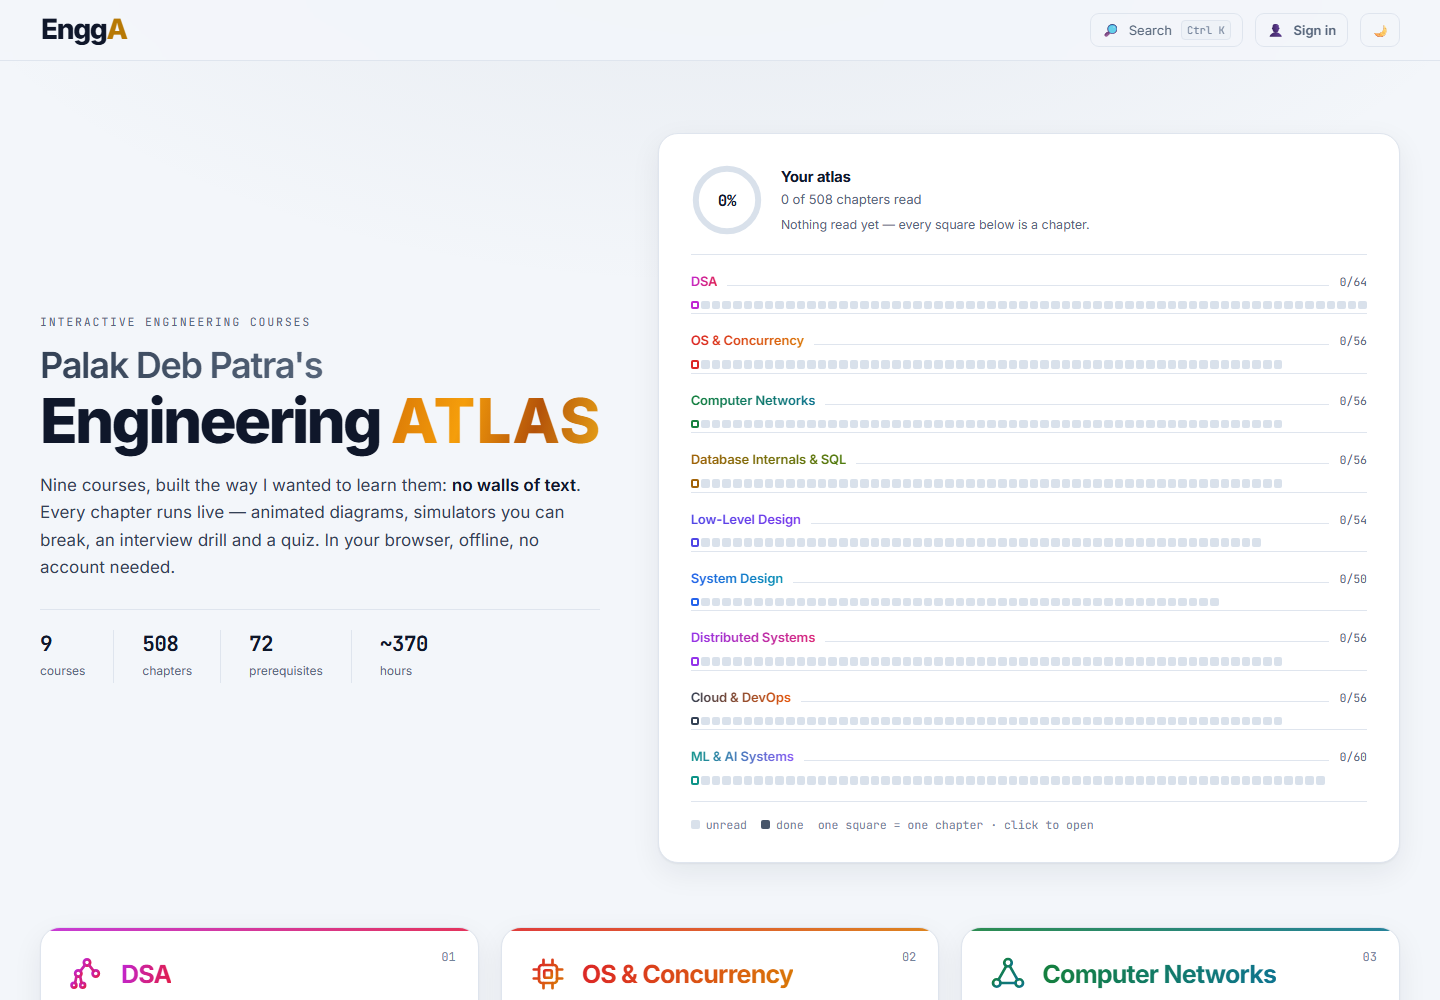
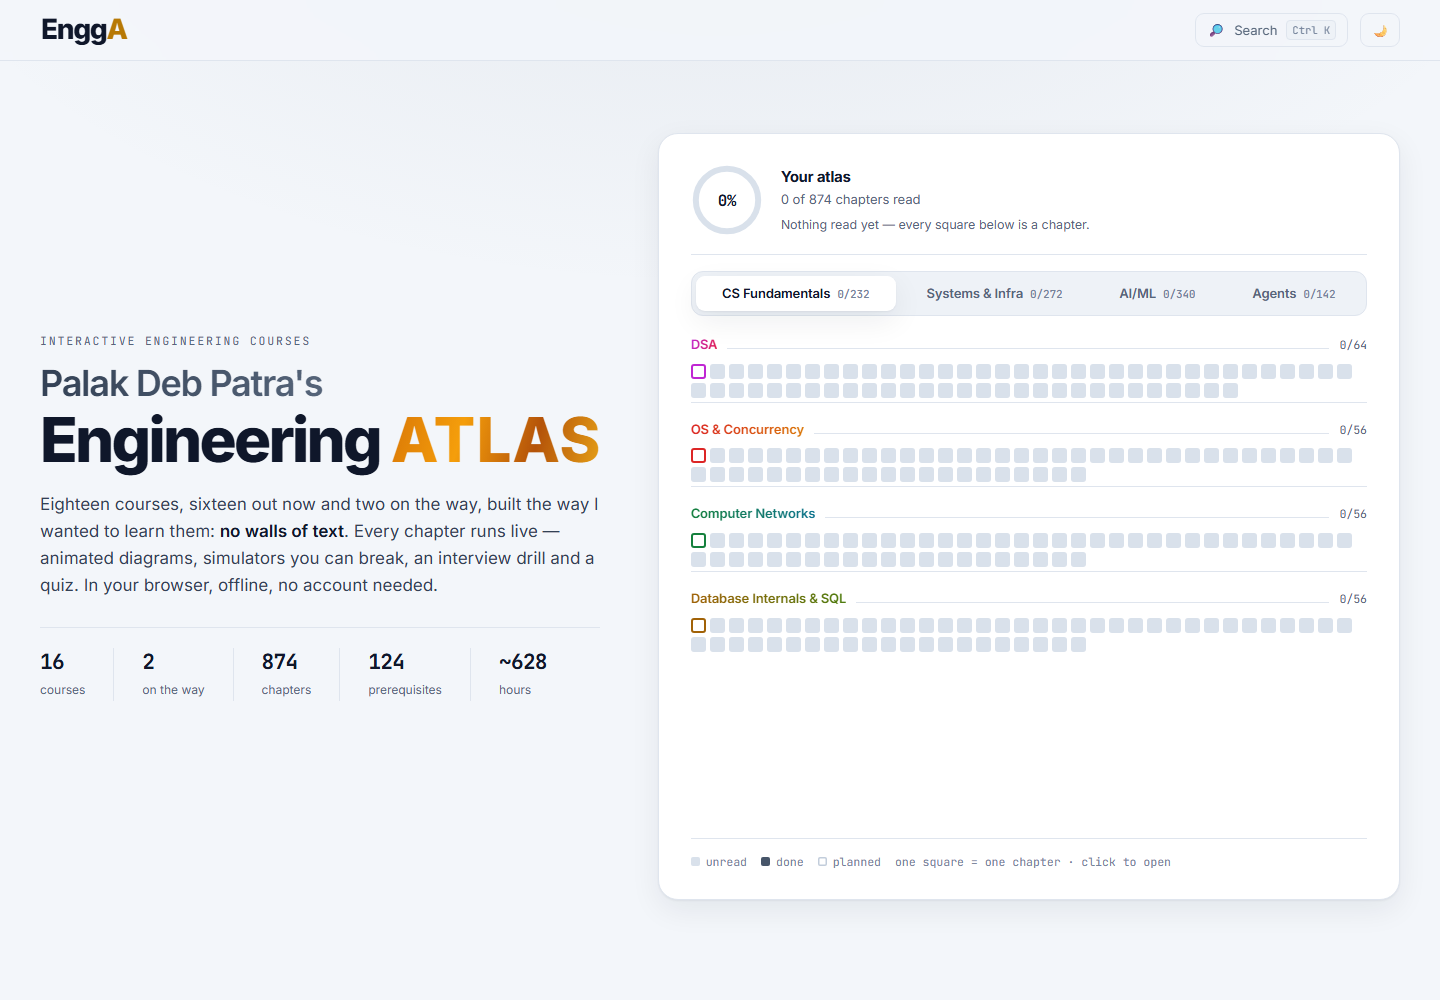
EnggA screenshots changed.....

diff --git a/src/App.tsx b/src/App.tsx
@@ -51,7 +51,7 @@ function Technologies({ items, label }: { items: string[]; label: string }) {
   return <ul className="technologies" role="list" aria-label={label}>{items.map(item => <li className="technology" key={item}><span className="technology-marker" aria-hidden="true">-</span><BrandIcon name={item} /><span>{item}</span></li>)}</ul>;
 }
 
-function TerminalRecord({ record, index, section }: { record: RecordEntry; index: number; section: SectionId }) {
+function TerminalRecord({ record, index, section, theme }: { record: RecordEntry; index: number; section: SectionId; theme: 'light' | 'dark' }) {
   const skills = section === 'skills';
   return <article className={`record tone-${recordTones[index % recordTones.length]} ${skills ? 'skill-branch' : ''}${record.caseStudy ? ' project-row' : ''}`} style={{ '--row-delay': `${Math.min(index, 5) * 35}ms` } as CSSProperties}>
     <div className={record.caseStudy ? 'project-information' : undefined}>
@@ -70,11 +70,11 @@ function TerminalRecord({ record, index, section }: { record: RecordEntry; index
     </div>}
     {record.research && <PublicationDetails />}
     </div>
-    {record.caseStudy && <ProjectPreview study={record.caseStudy} title={record.title} />}
+    {record.caseStudy && <ProjectPreview study={record.caseStudy} title={record.title} theme={theme} />}
   </article>;
 }
 
-function SectionRecords({ section }: { section: Section }) {
+function SectionRecords({ section, theme }: { section: Section; theme: 'light' | 'dark' }) {
   return <>{section.intro && <p className="section-intro"><span className="section-marker" aria-hidden="true">&gt;&gt;</span><span>{section.intro}</span></p>}
   <div className={`records${section.id === 'skills' ? ' skill-tree' : ''}${section.layout === 'single' || section.id === 'projects' ? ' single-column' : ''}${section.id === 'projects' ? ' project-list' : ''}`}>
     {section.columns ? section.columns.map((column, columnIndex) => <section className="record-column" key={column.label} aria-label={column.hideHeading ? column.label : undefined} aria-labelledby={column.hideHeading ? undefined : `column-${section.id}-${columnIndex}`}>
@@ -83,8 +83,8 @@ function SectionRecords({ section }: { section: Section }) {
       </div>}
       {section.records.map((record, index) => ({ record, index }))
         .filter(({ record }) => record.column === (column.column ?? (columnIndex === 0 ? 'left' : 'right')))
-        .map(({ record, index }) => <TerminalRecord key={record.title} record={record} index={index} section={section.id} />)}
-    </section>) : section.records.map((record, index) => <TerminalRecord key={record.title} record={record} index={index} section={section.id} />)}
+        .map(({ record, index }) => <TerminalRecord key={record.title} record={record} index={index} section={section.id} theme={theme} />)}
+    </section>) : section.records.map((record, index) => <TerminalRecord key={record.title} record={record} index={index} section={section.id} theme={theme} />)}
   </div></>;
 }
 
@@ -100,7 +100,7 @@ function Welcome({ onExplore }: { onExplore: (id: SectionId) => void }) {
   </section>;
 }
 
-function Resume({ section }: { section: Section }) {
+function Resume({ section, theme }: { section: Section; theme: 'light' | 'dark' }) {
   const dialogRef = useRef<HTMLDialogElement>(null);
   const closeRef = useRef<HTMLButtonElement>(null);
   const documentRef = useRef<HTMLDivElement>(null);
@@ -124,7 +124,7 @@ function Resume({ section }: { section: Section }) {
       {resumeDocuments.map((document, index) => <button className="cli-action" type="button" key={document.id} aria-pressed={index === documentIndex} aria-controls="resume-current" onClick={() => setDocumentIndex(index)}>{document.label}</button>)}
     </div>
     <div className={`resume-layout${documentIndex === 1 ? ' resume-layout--academic' : ''}`} id="resume-current">
-    <div className="resume-about"><TerminalRecord record={section.records[documentIndex]} index={documentIndex} section="resume" /></div>
+    <div className="resume-about"><TerminalRecord record={section.records[documentIndex]} index={documentIndex} section="resume" theme={theme} /></div>
     <section className="resume-document" aria-labelledby="resume-document-title">
       <div className="resume-document-header">
         <h3 id="resume-document-title"><BrandIcon name="Resume" /> {selectedDocument.label}</h3>
@@ -338,7 +338,7 @@ function Portfolio({ activeId, onSectionChange, onReplay, theme, onToggleTheme }
           {activeId && activeSection ? <div className={`terminal-session tone-${sectionTones[activeId]}${activeId === 'resume' ? ' terminal-session--resume' : ''}`} key={activeId}>
               <h2 className="sr-only">{activeSection.label}</h2>
               <div className="invocation"><span className="path" aria-hidden="true">PS &gt; </span><span className="typed-command" style={{ '--command-length': activeSection.command.length } as CSSProperties}>{activeSection.command}</span><span className="cursor" aria-hidden="true">▌</span></div>
-              {activeId === 'resume' ? <Resume section={activeSection} /> : <SectionRecords section={activeSection} />}
+              {activeId === 'resume' ? <Resume section={activeSection} theme={theme} /> : <SectionRecords section={activeSection} theme={theme} />}
           </div> : <div className="terminal-session welcome-page tone-blue"><Welcome onExplore={switchTab} /></div>}
         </div>
         {activeSection && <TerminalReadingStatus key={activeSection.id} outputRef={outputRef} section={activeSection.label} tone={sectionTones[activeSection.id]} tabsOverflow={tabScroll.controls} />}

diff --git a/tests/exploration.spec.ts b/tests/exploration.spec.ts
@@ -49,6 +49,25 @@ test('four selected projects expose summaries, engineering bullets, and previews
   expect(screenshotSources.size).toBe(4);
 });
 
+test('Engineering Atlas preview and full-size link follow the portfolio theme', async ({ page }) => {
+  await page.emulateMedia({ colorScheme: 'light', reducedMotion: 'reduce' });
+  await page.goto('/#portfolio');
+  await page.getByRole('tab', { name: 'Projects', exact: true }).click();
+  const atlas = page.locator('.record').filter({ has: page.getByRole('heading', { name: '>> The Engineering Atlas', exact: true }) });
+  const screenshot = atlas.locator('.case-cover > img');
+  const fullSize = atlas.getByRole('link', { name: 'Open full-size The Engineering Atlas screenshot', exact: true });
+
+  for (const [theme, source] of [['light', '/images/projects/engineering-atlas.png'], ['dark', '/images/projects/engineering-atlas-dark.png']] as const) {
+    await expect(page.locator('html')).toHaveAttribute('data-theme', theme);
+    await expect(screenshot).toHaveAttribute('src', source);
+    await expect(fullSize).toHaveAttribute('href', source);
+    await expect.poll(() => screenshot.evaluate(image => (image as HTMLImageElement).naturalWidth)).toBe(1440);
+    await page.getByRole('button', { name: `Switch to ${theme === 'light' ? 'dark' : 'light'} theme`, exact: true }).click();
+  }
+  await expect(screenshot).toHaveAttribute('src', '/images/projects/engineering-atlas.png');
+  await expect(fullSize).toHaveAttribute('href', '/images/projects/engineering-atlas.png');
+});
+
 test('NatWest roles use plain bullets and retain verified internship outcomes', async ({ page }) => {
   await page.goto('/#portfolio');
   await page.getByRole('tab', { name: 'Experience', exact: true }).click();

diff --git a/src/content.ts b/src/content.ts
@@ -8,7 +8,7 @@ export interface CaseStudy {
   contribution: string;
   result: string;
   scope: string;
-  image?: { src: string; alt: string; caption: string };
+  image?: { src: string; darkSrc?: string; alt: string; caption: string };
   preview?: { headline: string; steps: string; icon?: string; logo?: string };
   evidence: { label: string; url: string };
 }
@@ -309,7 +309,7 @@ const sectionContent: Section[] = [
           contribution: 'I directed Claude’s work on the course sites and shared hub, then reviewed the learning paths, search, themes and progress tracking.',
           result: 'The live Atlas covers nine engineering subjects, with interactive study tools and courses that can be downloaded for offline use.',
           scope: 'Progress stays on the device by default. Optional account sync uses a separate API, and the downloadable courses work offline.',
-          image: { src: publicAsset('/images/projects/engineering-atlas.png'), alt: 'The Engineering Atlas live course hub with learning paths and engineering courses', caption: 'Live course hub with learning paths and progress tracking' },
+          image: { src: publicAsset('/images/projects/engineering-atlas.png'), darkSrc: publicAsset('/images/projects/engineering-atlas-dark.png'), alt: 'The Engineering Atlas live course hub with learning paths and engineering courses', caption: 'Live course hub with learning paths and progress tracking' },
           evidence: { label: 'Explore the live Atlas', url: 'https://palakdebpatra.com/palak-engineering-atlas/' },
         },
         highlights: ['Interactive Learning', 'Connected Courses'],

diff --git a/src/PortfolioDetails.tsx b/src/PortfolioDetails.tsx
@@ -26,9 +26,10 @@ export function CopyButton({ text, label, compact = false }: { text: string; lab
   </span>;
 }
 
-export function ProjectPreview({ study, title }: { study: CaseStudy; title: string }) {
+export function ProjectPreview({ study, title, theme }: { study: CaseStudy; title: string; theme: 'light' | 'dark' }) {
+  const imageSrc = theme === 'dark' ? study.image?.darkSrc ?? study.image?.src : study.image?.src;
   return <figure className="project-visual" aria-label={`${title} preview`}>
-      {study.image ? <a className="case-cover" href={study.image.src} target="_blank" rel="noopener noreferrer" aria-label={`Open full-size ${title} screenshot`}><img src={study.image.src} alt={study.image.alt} width="1440" height="1000" loading="lazy" /></a>
+      {study.image ? <a className="case-cover" href={imageSrc} target="_blank" rel="noopener noreferrer" aria-label={`Open full-size ${title} screenshot`}><img src={imageSrc} alt={study.image.alt} width="1440" height="1000" loading="lazy" /></a>
         : <div className="case-cover code-cover">
           {study.preview?.logo ? <img src={study.preview.logo} alt={`${title} logo`} width="48" height="48" loading="lazy" /> : <BrandIcon name={study.preview?.icon ?? 'Website'} />}
           <span>{study.preview?.headline ?? title}<small>{study.preview?.steps ?? study.category}</small></span>
